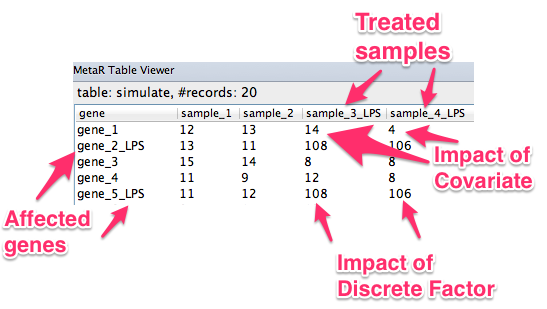
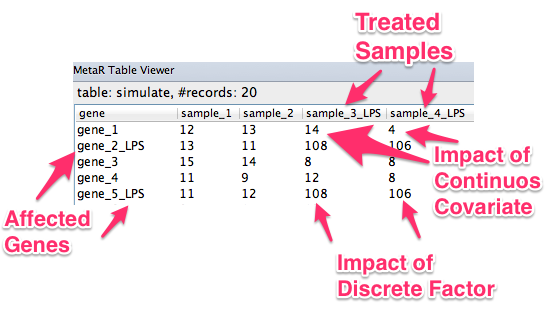
Tweak text and figures in Simulating Datasets chapter.

Changed region(s): [[0.777, 0.5534, 0.9945, 0.7282], [0.6527, 0.1165, 0.8391, 0.233], [0.0, 0.7573, 0.1243, 0.8447]]

diff --git a/chapter_SimulateDatasets.tex b/chapter_SimulateDatasets.tex
@@ -8,7 +8,7 @@
 
 To test or validate an Analysis script with large datasets it is sometimes useful to create a simulation of such datasets when they are not available. This approach could be also beneficial at experimental design time to validate certain assumptions before running (expensive) experiments.
 
-MetaR is extended with a Simulate Dataset command that allows to create datasets starting from a few parameters. In order to use the command, the Simulation language (\texttt{org.campagnelab.metaR.simulation}) has to be imported in the current model (use \keys{\cmd+L} and select the language from the list). Figure~\ref{fig:NewSimulateStatement} shows a new Simulate Dataset statement.
+MetaR is extended with a Simulate Dataset command that allows to create datasets starting from a few parameters. In order to use the command inside an Analysis script, the Simulation language (\texttt{org.campagnelab.metaR.simulation}) has to be imported in the current model (use \keys{\cmd+L} and select the language from the list). Figure~\ref{fig:NewSimulateStatement} shows a new Simulate Dataset statement.
 
 \begin{figure}[h!tbp]
   \centering
@@ -19,13 +19,13 @@ MetaR is extended with a Simulate Dataset command that allows to create datasets
  
 
 \section{The Simulate Dataset Statement}
-The Simulate Dataset statement is highly configurable and lets you create a variety of datasets for different needs.  
+The Simulate Dataset statement is highly configurable and lets you create a variety of datasets for different needs.  The output dataset is represented by a \texttt{Table} node that can be then further manipulated with other MetaR statements. 
 
 \paragraph{num of samples}
-The number of samples in the dataset. Each sample is named according to the results of the simulation. If the simulation decides that the sample name \emph{sample\_3 }has been treated with a discrete factor named \emph{LPS}, it is renamed to \emph{sample\_3\_LPS} to make it easy to identify the affection.
+The number of samples included in the dataset. Each sample is named according to the results of the simulation. If the simulation decides that the sample name \emph{sample\_3 }has been treated with a discrete factor named \emph{LPS}, it is renamed to \emph{sample\_3\_LPS} to make it easy to identify the affection.
 
 \paragraph{num of genes}
-The number of genes in the dataset. Each gene is renamed according to the results  of the simulation. If the simulation decides that the gene named \emph{gene\_2} is affected by a discrete factor named \emph{LPS}, it is renamed to \emph{gene\_2\_LPS} to make it easy to identify the treatment.
+The number of genes included in the dataset. Each gene is renamed according to the results  of the simulation. If the simulation decides that the gene named \emph{gene\_2} is affected by a discrete factor named \emph{LPS}, it is renamed to \emph{gene\_2\_LPS} to make it easy to identify the treatment.
 
 \paragraph{mean}
 ...
@@ -45,7 +45,7 @@ The impact of each discrete factor on the data generated by the simulation
 \begin{figure}[h!tbp]
   \centering
   \includegraphics[width=\figWidthWide]{figures/SimulateStatementWithParameters.pdf}
-\caption[SimulateDataset Example.]{\textbf{Simulate Dataset Example.} The statement will create a dataset with a single discrete factor (LPS) and a covariate factor (age) with a range of 0 to 36 (for instance, this could be the mice age in a mouse model). }
+\caption[SimulateDataset Example.]{\textbf{Simulate Dataset Example.} This statement will create a dataset with a single discrete factor (LPS) and a covariate factor (age) with a range of 0 to 36 (for instance, this could be the mouse age in a mouse model). }
 \label{fig:SimulateDatasetExample}
 \end{figure}
 
